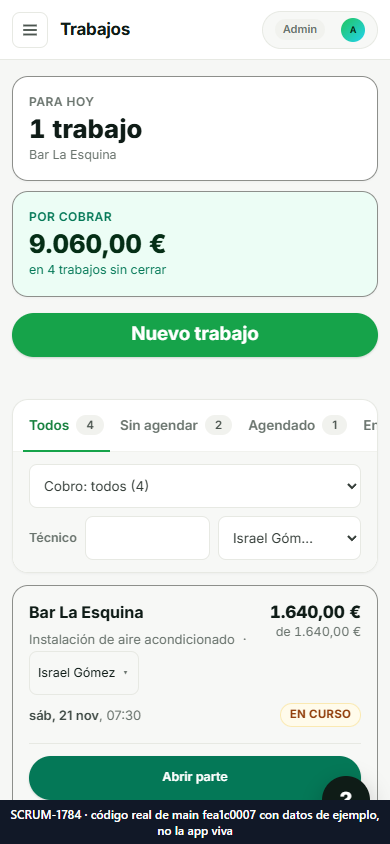
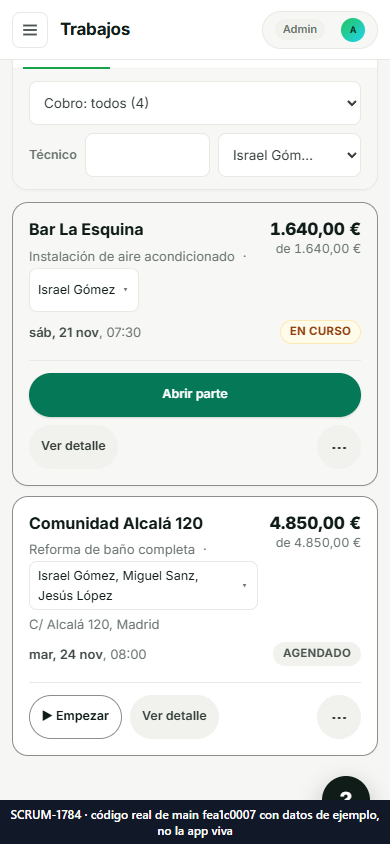
[carril J2] SCRUM-1784a: capturas de varios tecnicos por trabajo (codigo real de main, datos de ejemplo), captura 5 rehecha, registro y cicatriz J2
Solo documentos y evidencias: nada en src/, public/ ni prisma/.

diff --git a/docs/master/evidencias/SCRUM-1784/guion/capturas.js b/docs/master/evidencias/SCRUM-1784/guion/capturas.js
@@ -1,5 +1,10 @@
-// SCRUM-1784 · capturas de la pantalla REAL de Trabajos (código de main) con datos de EJEMPLO.
+// SCRUM-1784 · capturas de la pantalla REAL de Trabajos (código de main fea1c0007) con datos de EJEMPLO.
 // Contexto nuevo con service worker BLOQUEADO: el SW del panel cachea /admin/* y se saltaba las rutas.
+//
+// jv-j2do (relevo): ningún paso va dentro de un `catch` mudo. jv-j2dn hizo `.click().catch(() => {})`
+// sobre la pestaña «El trabajo» con `getByRole('button')`, y las pestañas de la ficha son `role="tab"`
+// (jobDetailView.js:90): el clic fallaba en silencio y la captura 5 salía igual que la 4. Ahora, tras
+// cada clic, se ESPERA el bloque que la captura dice enseñar y, si no aparece, el guion lanza.
 async (page) => {
   const equipo = [
     { id: null, name: 'Ana (propietaria)', role: 'admin', status: 'active' },
@@ -23,14 +28,17 @@ async (page) => {
   ];
   const me = { merchantId: 1, userRole: 'admin', name: 'Ana', teamMemberId: null, plan: 'pro', merchantName: 'Reformas Ejemplo', onboardingCompleted: true, country: 'ES' };
   const json = (route, body, status = 200) => route.fulfill({ status, contentType: 'application/json', body: JSON.stringify(body) });
-  const DIR = 'docs/master/evidencias/SCRUM-1784/';
+  // Ruta absoluta del árbol que captura: la relativa se resuelve contra el cwd del servidor de Playwright, no contra el árbol.
+  const DIR = (globalThis.__dir1784 || 'C:/Users/Javier Pereira/cobroflash-jv-j2do') + '/docs/master/evidencias/SCRUM-1784/';
   const PIE = 'SCRUM-1784 · código real de main fea1c0007 con datos de ejemplo, no la app viva';
-  const hechas = []; const patches = [];
+  const hechas = []; const patches = []; const fuera = []; const comprobado = {}; const otras = [];
 
   async function abrir(viewport, isMobile) {
     const ctx = await page.context().browser().newContext({ viewport, isMobile, hasTouch: isMobile, serviceWorkers: 'block', locale: 'es-ES' });
-    await ctx.route('http://127.0.0.1:5784/**', async (route) => {
-      const req = route.request(); const p = new URL(req.url()).pathname;
+    await ctx.route('**/*', async (route) => {
+      const req = route.request(); const u = new URL(req.url()); const p = u.pathname;
+      // Nada sale de 127.0.0.1:5784: lo demás (fuentes, CDN) se anota y se corta.
+      if (u.host !== '127.0.0.1:5784') { fuera.push(req.method() + ' ' + u.host + p); return route.abort(); }
       if (/\.(js|css|html|svg|png|ico|woff2?|webmanifest|json)$/.test(p) || p.endsWith('/')) return route.continue();
       if (p === '/admin/me') return json(route, me);
       if (p === '/admin/merchant') return json(route, { id: 1, name: me.merchantName, country: 'ES', onboardingCompleted: true });
@@ -38,7 +46,9 @@ async (page) => {
       if (p === '/admin/jobs' && req.method() === 'GET') return json(route, jobs);
       const m = p.match(/^\/admin\/jobs\/(\d+)$/);
       if (m && req.method() === 'GET') { const j = jobs.find((x) => x.id === Number(m[1])); return json(route, { ...j, invoices: [], charge: null, albaranes: [], partes: [], entregaPendiente: null }); }
-      if (m && req.method() === 'PATCH') { patches.push(req.postData()); return json(route, jobs.find((x) => x.id === Number(m[1])) || {}); }
+      // Toda escritura se contesta AQUÍ (no hay servidor detrás). Las de un trabajo van a `patches`, que
+      // tiene que salir vacío; las demás (el panel manda `POST /admin/entorno` al arrancar) se listan.
+      if (req.method() !== 'GET') { (/^\/admin\/jobs/.test(p) ? patches : otras).push(req.method() + ' ' + p + ' ' + (req.postData() || '')); return json(route, {}); }
       if (p === '/version') return json(route, { version: 'fea1c0007' });
       if (/^\/admin\/(partes|quote-requests|precarga|metrics)/.test(p)) return json(route, []);
       return json(route, {});
@@ -49,33 +59,82 @@ async (page) => {
   async function pie(pg) {
     await pg.evaluate((t) => { if (document.getElementById('pie-1784')) return; const d = document.createElement('div'); d.id = 'pie-1784'; d.textContent = t; Object.assign(d.style, { position: 'fixed', left: '0', right: '0', bottom: '0', zIndex: 99999, background: '#111827', color: '#fff', font: '600 12px system-ui', padding: '6px 10px', textAlign: 'center' }); document.body.appendChild(d); }, PIE);
   }
-  async function foto(pg, nombre, opts = {}) { await pie(pg); await pg.screenshot({ path: DIR + nombre, ...opts }); hechas.push(nombre); }
+  // jv-j2do: la 4 salía desvaída (fundido de entrada a medias). Antes de cada foto, se ESPERA a que no
+  // quede ninguna animación corriendo; si no acaban en 5 s, lanza.
+  async function quieta(pg, nombre) {
+    try { await pg.waitForFunction(() => document.getAnimations().every((a) => a.playState !== 'running'), null, { timeout: 5000 }); }
+    catch (e) { throw new Error(`[${nombre}] sigue habiendo animaciones corriendo`); }
+  }
+  async function foto(pg, nombre) { await quieta(pg, nombre); await pie(pg); await pg.screenshot({ path: DIR + nombre }); hechas.push(nombre); }
+  // Espera el bloque que la captura promete; si no está VISIBLE, lanza con el nombre de la captura.
+  async function exige(pg, sel, nombre) {
+    try { await pg.locator(sel).first().waitFor({ state: 'visible', timeout: 6000 }); }
+    catch (e) { throw new Error(`[${nombre}] NO está en pantalla: ${sel} — no se captura`); }
+  }
+  async function aLaLista(pg) {
+    await pg.goto('http://127.0.0.1:5784/dashboard/#jobs', { waitUntil: 'networkidle' });
+    await exige(pg, 'text=Comunidad Alcalá 120', 'lista');
+    await pg.waitForTimeout(400);
+  }
 
   for (const [sufijo, viewport, movil] of [['escritorio', { width: 1440, height: 900 }, false], ['movil', { width: 390, height: 844 }, true]]) {
     const { ctx, pg } = await abrir(viewport, movil);
-    await pg.goto('http://127.0.0.1:5784/dashboard/#jobs', { waitUntil: 'networkidle' });
-    await pg.waitForTimeout(700);
-    await foto(pg, `1-lista-${sufijo}.png`);
-    // desplegable de casillas de la fila con 3 técnicos
-    const menu = pg.locator('.jobs-tecnicos-menu').first();
-    if (await menu.count()) { await menu.locator('summary, .jobs-tecnicos-resumen').first().click(); await pg.waitForTimeout(300); await foto(pg, `2-lista-casillas-${sufijo}.png`); await pg.keyboard.press('Escape'); await pg.goto('http://127.0.0.1:5784/dashboard/#jobs', { waitUntil: 'networkidle' }); await pg.waitForTimeout(500); }
-    // filtro por técnico: Israel
+    const n = (k) => `${k}-${sufijo}.png`;
+
+    // 1 · la lista con la columna/los nombres de los técnicos
+    await aLaLista(pg);
+    await exige(pg, '.jobs-tecnicos-resumen', n('1-lista'));
+    comprobado[n('1-lista')] = await pg.locator('.jobs-tecnicos-resumen').allTextContents();
+    await foto(pg, n('1-lista'));
+
+    // 2 · desplegable de casillas de la fila con TRES técnicos (jv-j2do: con `.first()` abría la de uno)
+    const menu = pg.locator('.jobs-tecnicos-menu', { hasText: 'Israel Gómez, Miguel Sanz' }).first();
+    if (!(await menu.count())) throw new Error(`[${n('2-lista-casillas')}] no hay .jobs-tecnicos-menu`);
+    await menu.locator('summary, .jobs-tecnicos-resumen').first().click();
+    await exige(pg, '.jobs-tecnicos-menu[open] input[type="checkbox"]', n('2-lista-casillas'));
+    comprobado[n('2-lista-casillas')] = { casillas: await pg.locator('.jobs-tecnicos-menu[open] input[type="checkbox"]').count(), marcadas: await pg.locator('.jobs-tecnicos-menu[open] input[type="checkbox"]:checked').count() };
+    if (comprobado[n('2-lista-casillas')].marcadas < 3) throw new Error(`[${n('2-lista-casillas')}] el desplegable abierto no es el de tres técnicos`);
+    await foto(pg, n('2-lista-casillas'));
+    await pg.keyboard.press('Escape');
+
+    // 3 · filtro por técnico (Israel): tienen que quedar menos filas, y la de Marta Ruiz (sin Israel) fuera
+    await aLaLista(pg);
     const sel = pg.locator('#jobs-filtro-tecnico-select');
-    if (await sel.count()) { await sel.selectOption('11').catch(() => {}); await pg.waitForTimeout(400); await foto(pg, `3-lista-filtro-tecnico-${sufijo}.png`); }
-    // ficha del trabajo con 3 técnicos
-    await pg.goto('http://127.0.0.1:5784/dashboard/#jobs', { waitUntil: 'networkidle' }); await pg.waitForTimeout(400);
-    await pg.evaluate(() => { window.appState = window.appState || {}; });
-    const fila = pg.locator('text=Comunidad Alcalá 120').first();
-    await fila.click().catch(() => {});
-    await pg.waitForTimeout(900);
-    await foto(pg, `4-ficha-${sufijo}.png`);
-    await pg.getByRole('button', { name: 'El trabajo', exact: true }).first().click({ timeout: 5000 }).catch(() => {});
-    await pg.waitForTimeout(600);
-    const quien = pg.locator('[data-seccion="asignados"]:visible').first();
-    if (await quien.count()) await quien.scrollIntoViewIfNeeded({ timeout: 5000 }).catch(() => {});
+    if (!(await sel.count())) throw new Error(`[${n('3-lista-filtro-tecnico')}] no hay #jobs-filtro-tecnico-select`);
+    await sel.selectOption('11');
+    await pg.waitForTimeout(400);
+    if (await pg.locator('text=Marta Ruiz').first().isVisible()) throw new Error(`[${n('3-lista-filtro-tecnico')}] el filtro no filtró: Marta Ruiz sigue visible`);
+    await exige(pg, 'text=Bar La Esquina', n('3-lista-filtro-tecnico'));
+    await foto(pg, n('3-lista-filtro-tecnico'));
+
+    // 4 · la ficha del trabajo 101 (tres técnicos), por su botón «Ver detalle»
+    await aLaLista(pg);
+    const fila = pg.locator('tr, .job-card, .jobs-card, li, article', { hasText: 'Comunidad Alcalá 120' }).filter({ has: pg.getByRole('button', { name: 'Ver detalle' }) }).last();
+    if (!(await fila.count())) throw new Error(`[${n('4-ficha')}] no encuentro la fila de Comunidad Alcalá 120 con «Ver detalle»`);
+    await fila.getByRole('button', { name: 'Ver detalle' }).first().click();
+    await exige(pg, '.detail-pestanas [role="tab"]', n('4-ficha'));
+    await exige(pg, 'text=Reforma de baño completa', n('4-ficha'));
+    await foto(pg, n('4-ficha'));
+
+    // 5 · pestaña «El trabajo» → línea «Quién lo ejecuta» abierta → sus casillas, tres marcadas
+    await pg.getByRole('tab', { name: 'El trabajo', exact: true }).click();
+    await exige(pg, 'details.detail-plega[data-linea="quien"]', n('5-ficha-quien-ejecuta'));
+    const linea = pg.locator('details.detail-plega[data-linea="quien"]').first();
+    if (!(await linea.evaluate((d) => d.open))) await linea.locator('summary').click();
+    // El título «Quién ejecuta este trabajo» NO se pinta en la ficha desde SCRUM-917g (`sinTitulo: true`,
+    // jobDetailView.js:1522): el rótulo es el de la línea, «Quién lo ejecuta» (jobTrabajoPlegable.js:36).
+    await exige(pg, 'details.detail-plega[data-linea="quien"][open] summary:has-text("Quién lo ejecuta")', n('5-ficha-quien-ejecuta'));
+    await exige(pg, 'details.detail-plega[data-linea="quien"][open] .job-asignados input[type="checkbox"]', n('5-ficha-quien-ejecuta'));
+    const marcadas = await pg.locator('.job-asignados input[type="checkbox"]:checked').count();
+    const total = await pg.locator('.job-asignados input[type="checkbox"]').count();
+    if (marcadas < 2) throw new Error(`[${n('5-ficha-quien-ejecuta')}] sólo ${marcadas} casillas marcadas de ${total}`);
+    comprobado[n('5-ficha-quien-ejecuta')] = { marcadas, total };
+    await pg.locator('.job-asignados').first().scrollIntoViewIfNeeded();
+    await pg.evaluate(() => window.scrollBy(0, 120));
     await pg.waitForTimeout(300);
-    await foto(pg, `5-ficha-quien-ejecuta-${sufijo}.png`);
+    await foto(pg, n('5-ficha-quien-ejecuta'));
     await ctx.close();
   }
-  return { hechas, patches };
+  if (patches.length) throw new Error('Se intentó escribir en un trabajo: ' + patches.join(' | '));
+  return { hechas, patches, otras, comprobado, fuera: [...new Set(fuera)] };
 }

diff --git a/docs/master/SCRUM-1784.md b/docs/master/SCRUM-1784.md
@@ -1,0 +1,54 @@
+# SCRUM-1784a · Varios técnicos por trabajo: YA existe desde el 2-sep; capturas para el fundador con el código real de main
+
+**Medido contra:** `origin/main` = `fea1c00078654d8d617af055de94f2b627df07ce` · 2026-11-21T03:53:14Z
+
+A9: aviso → cicatriz J2 «un clic que falla dentro de un catch mudo produce una captura igual a la anterior» — no se pudo comprobar: el guion de capturas vive en evidencias y ningún test lo ejecuta, así que no hay guard que pueda cazar un clic tragado; lo que sí queda es que el propio guion ya no traga nada: cada paso exige su bloque visible y sin animaciones, o lanza
+
+Carril J2 (solo documentos y evidencias: nada en `src/`, `public/` ni `prisma/`). Encargo del orquestador J (`cobroflash-backend-87`), 21-nov-2026. Sesiones `jv-j2dn` (medición y primeras capturas) y `jv-j2do` (relevo: captura 5, revisión de las 10 y este registro), rama `scrum-1784a-relevo-j2do`. La hora del ancla es la cabecera `Date:` de GitHub (`gh api -i zen`).
+
+## 1 · La medición (SCRUM-1784 c.22258, jv-j2dn)
+
+La orden del fundador pedía poder asignar un trabajo a varios técnicos. **Eso ya está construido y en producción desde el 2-sep-2026** (SCRUM-650 y SCRUM-727b). Las piezas, con su ruta en main, están en la tabla de c.22258: la tabla N:M `job_assignees`, la escritura en `src/modules/jobs/domain/asignacionDeTrabajo.ts`, el filtro de los tres ejes en `jobs.routes.ts`, el selector de la ficha en `public/dashboard/js/jobAsignados.js`, y la columna, las casillas y el filtro de la lista en `public/dashboard/js/jobsView.js`. Por eso no hay ni borrador, ni DDL, ni código: solo capturas de lo que hay, para que el fundador diga si es lo que pedía.
+
+## 2 · Las capturas (SCRUM-1784 c.22270)
+
+Están en `docs/master/evidencias/SCRUM-1784/`, en escritorio (1440×900) y en móvil (390×844). Todas llevan el pie «SCRUM-1784 · código real de main fea1c0007 con datos de ejemplo, no la app viva».
+
+| captura | qué enseña |
+| --- | --- |
+| `1-lista-*` | la lista de Trabajos, cada fila con sus técnicos («Israel Gómez, Miguel Sanz, J…», «Sin asignar»…), y el filtro «Todos los técnicos» |
+| `2-lista-casillas-*` | el desplegable de la fila «Comunidad Alcalá 120» abierto, con 3 casillas y 3 marcadas |
+| `3-lista-filtro-tecnico-*` | el filtro en «Israel Gómez»: solo quedan sus dos trabajos |
+| `4-ficha-*` | la ficha «Reforma de baño completa» con sus pestañas |
+| `5-ficha-quien-ejecuta-*` | la pestaña «El trabajo» con la línea «Quién lo ejecuta» abierta y 3 de 3 casillas marcadas |
+
+**Cómo se hicieron:** el código de `public/` de main se sirvió en estático en 127.0.0.1:5784. Playwright, por el MCP, lanzó `guion/capturas.js` en un contexto nuevo con `serviceWorkers: 'block'`: el service worker del panel cachea `/admin/*` y se salta las rutas. Las respuestas de `/admin/*` las da el propio guion con datos de ejemplo. Resultado de la última pasada:
+
+- 10 capturas hechas;
+- `patches=[]` (ninguna escritura sobre un trabajo);
+- 0 peticiones fuera de 127.0.0.1;
+- 2 `POST /admin/entorno`, que manda el panel al arrancar y que contestó el guion, sin servidor detrás.
+
+`guion/maqueta-api.js` es la maqueta de la primera pasada de jv-j2dn. `capturas.js` ya no la usa (lleva la suya dentro) y se deja como estaba.
+
+**Corrección a c.22258 y al encargo:** en la ficha, el selector ya no lleva el título «Quién ejecuta este trabajo». Desde SCRUM-917g se pinta con `sinTitulo: true` (`public/dashboard/js/jobDetailView.js:1522`), y el rótulo que se ve es el de la línea, «Quién lo ejecuta» (`public/dashboard/js/jobTrabajoPlegable.js:36`).
+
+## 3 · Los errores, y en qué orden se cazaron
+
+1. **jv-j2dn**: la captura 5 era idéntica a la 4. El guion buscaba la pestaña con `getByRole('button')`, pero es `role="tab"` (`jobDetailView.js:90`), y el clic iba dentro de un `.catch(() => {})`.
+2. **jv-j2do, al mirar las capturas**: la 4 salía desvaída, a mitad del fundido de entrada, y la 2 abría la fila de un solo técnico.
+
+Se arreglaron los dos en el guion. Cada paso espera su bloque visible (`exige`) y que no quede ninguna animación corriendo (`quieta`); si no, lanza con el nombre de la captura. Las 10 se revisaron una por una con el visor de imágenes, después de la última pasada.
+
+## 4 · Lo que NO se ha medido
+
+- No se ha abierto yaqu.app (sin credenciales, y el encargo lo prohíbe).
+- No se ha comprobado si asignar a un técnico le manda un aviso: sigue como lo dejó c.22258.
+- En `4-ficha-movil`, la tarjeta «Cliente» sale a media anchura. Así lo pinta el código de main con estos datos; no se ha investigado, y es del carril S2/S4.
+
+## 5 · Aceptación → dónde se ve
+
+| aceptación (literal) | dónde se ve |
+| --- | --- |
+| «cuando tengas el borrador enseñamelo con playwrith para aprobartelo» | `docs/master/evidencias/SCRUM-1784/` (10 PNG) y SCRUM-1784 c.22270. No es un borrador: es lo que ya existe en main |
+| aprobación del fundador | NO HECHO → el fundador, con las preguntas de c.22258 y c.22270 |

diff --git a/docs/equipo/cicatrices/J2.md b/docs/equipo/cicatrices/J2.md
@@ -45,3 +45,4 @@
 - 2026-11-18 · dos relevos seguidos de SCRUM-1732 (jv-j2c7, jv-j2c8) leyeron el ticket antes de la skill `verifactu` que el encargo ponía primero, y jv-j2d0 metió dos tests en un mismo comando que pasó de 120 s y el arnés lo mandó a segundo plano → sin comprobación: el orden de lectura y el tope de un comando que no es un tramo no los vigila ningún hook; el de tramos sólo caza `tanda-entera-por-tramos`
 - 2026-11-18 · otra vez tomé de control positivo del ls-remote la rama de un PR ya mergeado (`scrum-1768*`, la punta de main): el merge la había borrado y el control dio 0; lo vi al leer la salida y lo rehíce con una rama viva (SCRUM-1005a) → sin comprobación: el control lo escribe a mano cada sesión en su consola, y es la misma línea del 2026-10-23 repetida con ella ya escrita
 - 2026-11-19 · leí el fichero de entorno de staging con un regex de claves `[A-Z_]+`, sin dígitos: `E2E_TEST_LOGIN_SECRET` no casó y el login QA salió 404 con el secreto vacío (SCRUM-1732f) → sin comprobación: el lector vive en el temporal de la sesión y ningún guard ve cómo una sesión lee su fichero de entorno; lo vi al comparar el patrón con el nombre de la clave
+- 2026-11-21 · el guion de capturas de SCRUM-1784 buscó la pestaña «El trabajo» con el rol `button` (es `tab`) y con el clic dentro de un `.catch(() => {})`: un clic que falla dentro de un catch mudo produce una captura igual a la anterior, y la 5 salió idéntica a la 4; la 4 salió además a mitad de un fundido de entrada (jv-j2dn; lo vio y lo rehízo jv-j2do) → sin comprobación: el guion vive en `docs/master/evidencias/SCRUM-1784/guion/` y ningún test lo ejecuta; desde este tramo cada paso exige su bloque visible y sin animaciones corriendo, o lanza con el nombre de la captura
